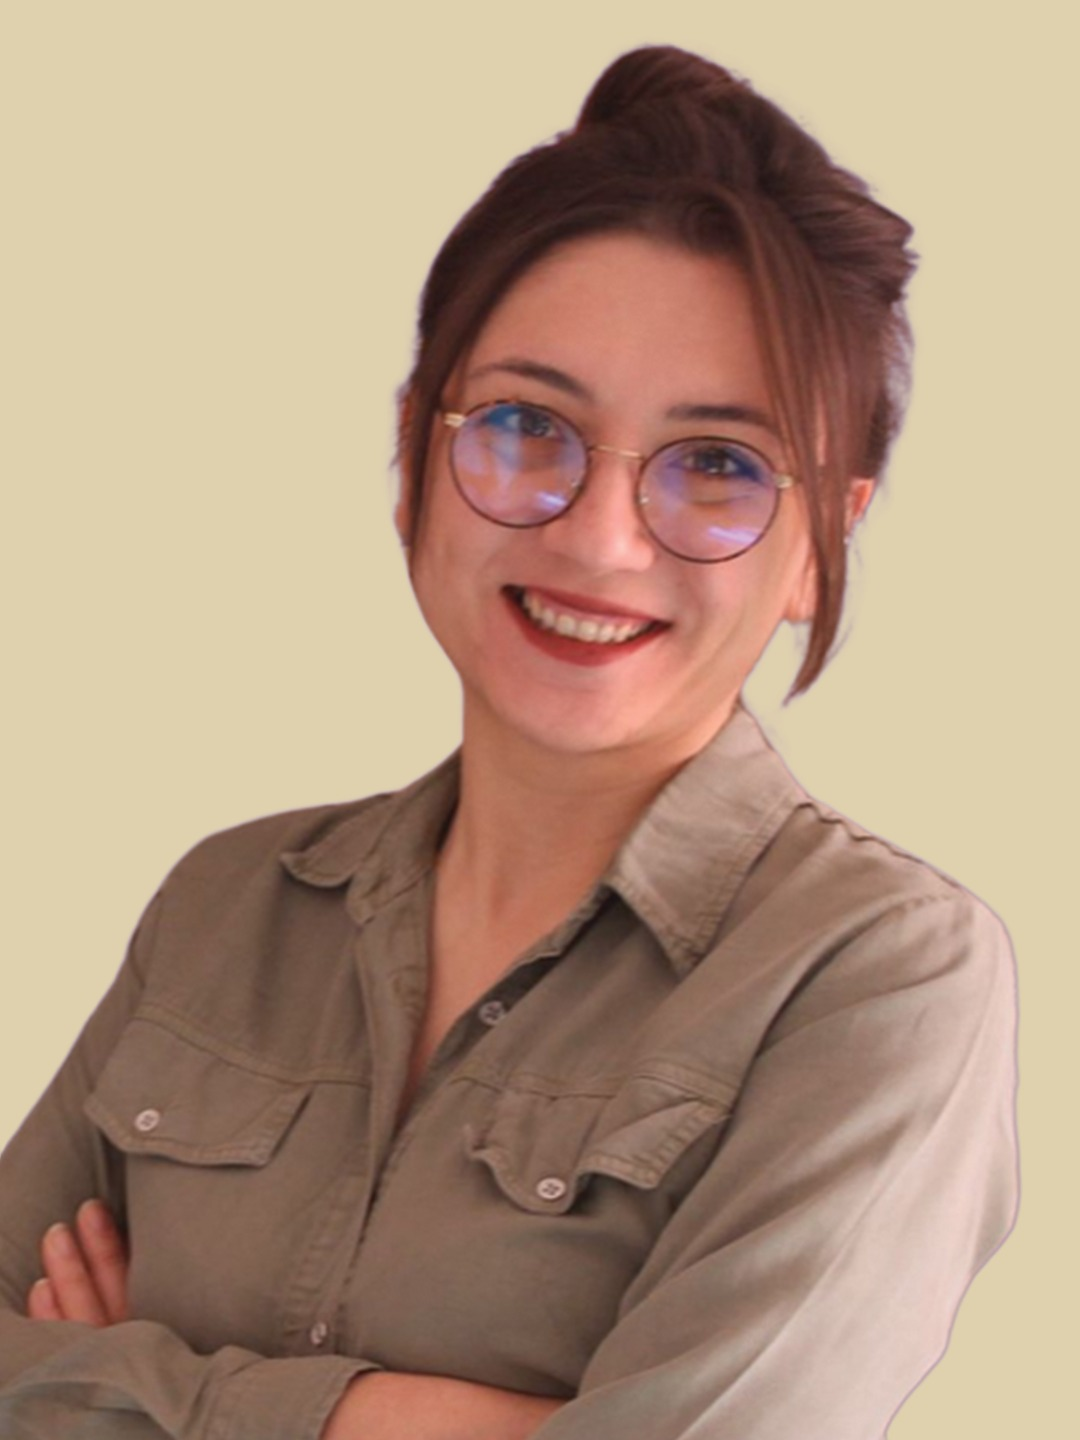
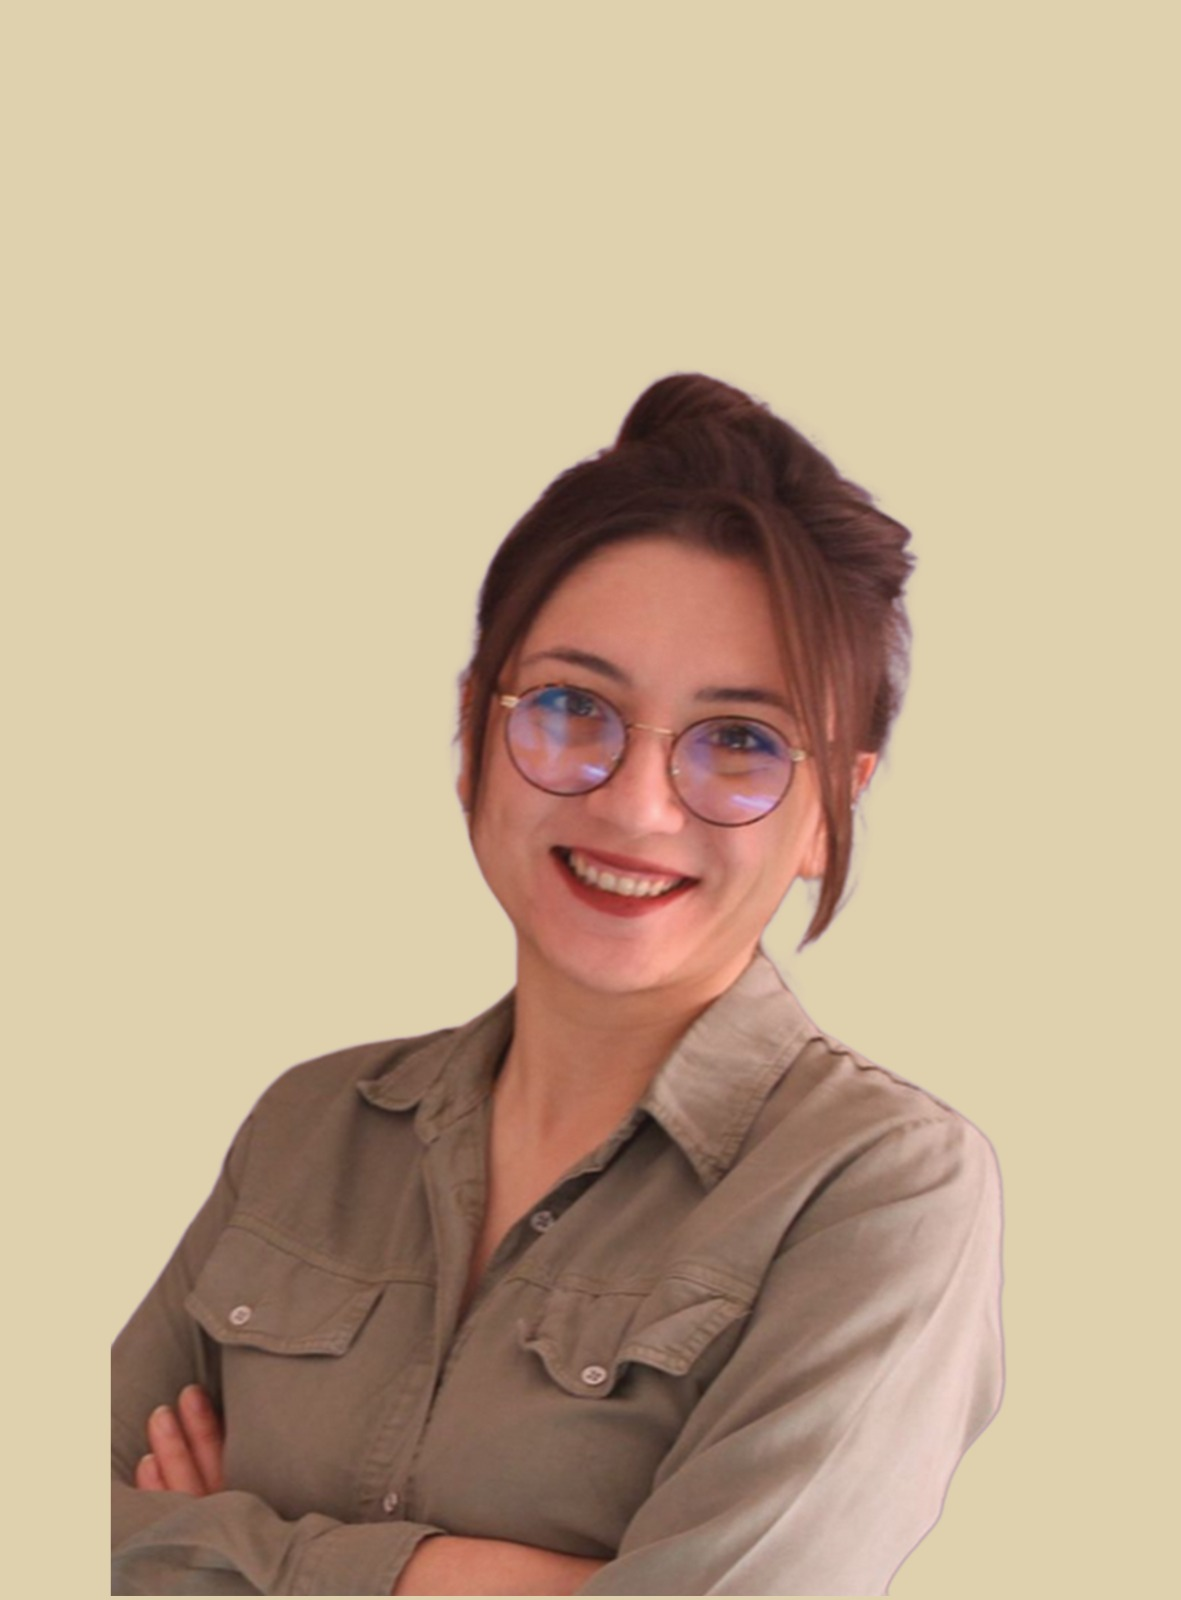
ok

diff --git a/assets/data/team.js b/assets/data/team.js
@@ -65,8 +65,8 @@ Quand tu nous écris, je veux que tu ressentes ceci : Ici, on ne te donne pas se
     id:           'busra-sahin',
     name:         'Büşra Şahin',
     photo:        '../assets/images/about/büsrasahin-ekip.png',
-    photoSize:    'auto 140%',
-    photoPosition:'50% 15%',
+    photoSize:    'auto 115%',
+    photoPosition:'55% 90%',
     role: {
       de: 'Chefredakteurin',
       en: 'Editor-in-Chief',
@@ -156,8 +156,8 @@ Quand un auteur vient nous voir, je veux l'accueillir ainsi : sereinement, chale
     id:           'sibel-caglar',
     name:         'Sibel Çağlar',
     photo:        '../assets/images/about/sibelcaglar.png',
-    photoSize:    'auto 125%',
-    photoPosition:'50% 30%',
+    photoSize:    'auto 100%',
+    photoPosition:'60% 60%',
     role: {
       de: 'Autorenberaterin',
       en: 'Author Consultant',
@@ -245,7 +245,8 @@ Quand tu nous contactes, je veux que tu te sentes non seulement orienté — mai
     id:           'erinc-sahin',
     name:         'Erinç Şahin',
     photo:        '../assets/images/about/erinc.jpg',
-    photoPosition:'50% 15%',
+    photoSize:    'auto 120%',
+    photoPosition:'50% 55%',
     role: {
       de: 'Digitale Reichweite & Social-Media-Kommunikation',
       en: 'Digital Reach & Social Media Communications',
@@ -290,8 +291,7 @@ Si tu veux raconter ton histoire — nous pouvons commencer ensemble. Peu import
     id:           'nese-siyamoglu',
     name:         'Neşe Siyamoğlu',
     photo:        '../assets/images/about/nesesiyamoglu-ekip.png',
-    photoSize:    'auto 140%',
-    photoPosition:'50% 15%',
+    photoPosition:'50% 10%',
     role: {
       de: 'Lektorat & Verlagsgestaltung',
       en: 'Editing & Publishing Design',
@@ -365,7 +365,8 @@ Bir yazar ilk kez bir sözleşme gördüğünde ya da sürecin mali tarafında k
     id:           'arzu-ozen-cakir',
     name:         'Arzu Özen Çakır',
     photo:        '../assets/images/about/arzucakır.png',
-    photoPosition:'50% 20%',
+    photoSize:    'auto 100%',
+    photoPosition:'50% 00%',
     role: {
       de: 'Finanzen & Buchhaltung',
       en: 'Finance & Accounting',